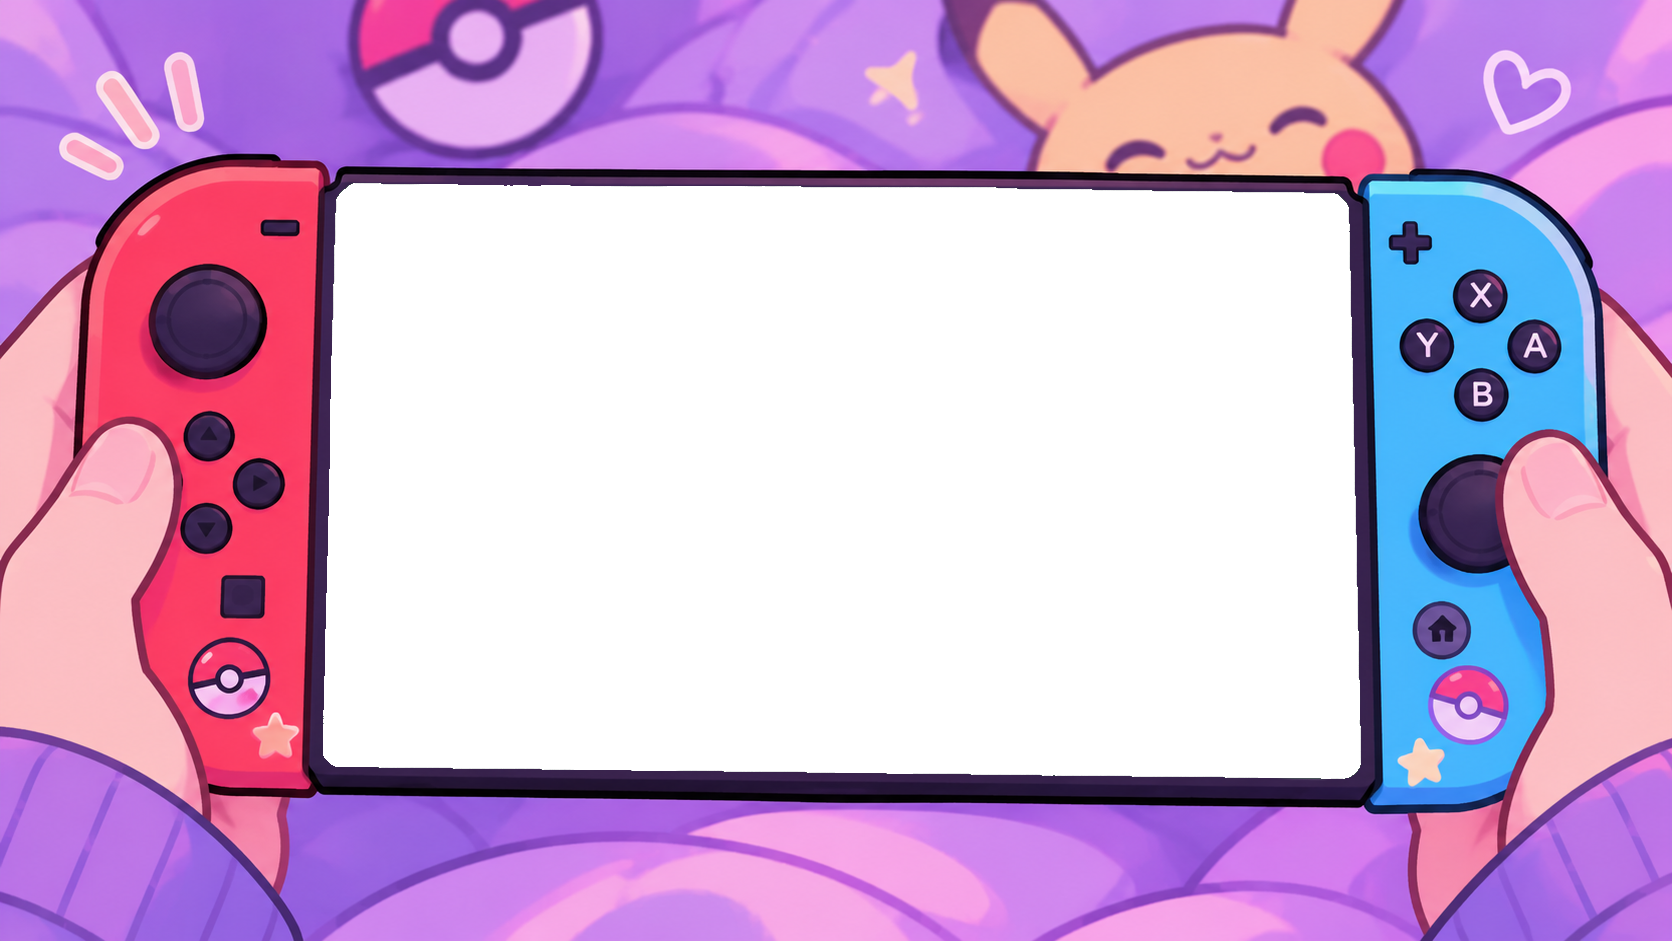
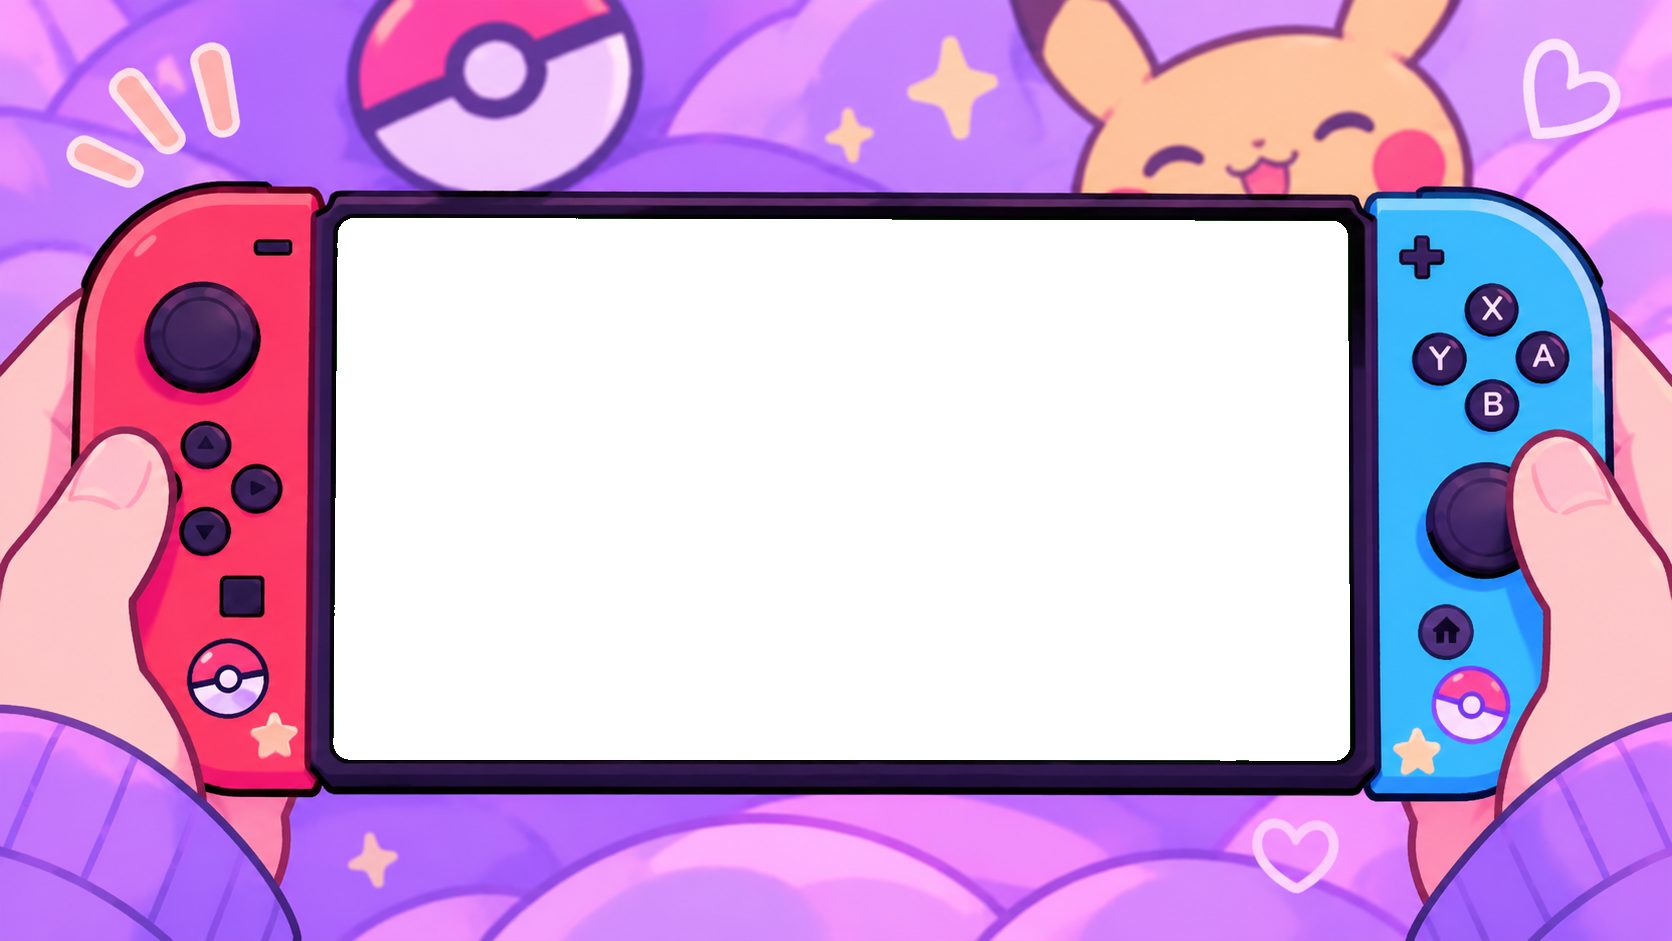
feat(3-Arrival): update Switch frame cutout and screen slot alignment for new background

diff --git a/3-Arrival/index.html b/3-Arrival/index.html
@@ -9,7 +9,7 @@
 
     <title>3-Arrival : Onix Snake & Scorbunnies (Switch Edition)</title>
 
-    <link rel="stylesheet" type="text/css" href="style.css?v=3.3">
+    <link rel="stylesheet" type="text/css" href="style.css?v=3.5">
 
     <script src="libraries/p5.min.js"></script>
     <script src="libraries/p5.sound.min.js"></script>
@@ -27,7 +27,7 @@
   <body>
     <div id="switch-stage">
       <div id="game-screen-slot"></div>
-      <img id="switch-overlay" src="../ressources/switch_frame.png?v=3.3" alt="Console Switch" draggable="false" />
+      <img id="switch-overlay" src="../ressources/switch_frame.png?v=3.5" alt="Console Switch" draggable="false" />
     </div>
   </body>
 </html>

diff --git a/3-Arrival/style.css b/3-Arrival/style.css
@@ -24,10 +24,10 @@ html, body {
 /* Zone d'écran de la console (alignée exactement sur l'écran vert découpé) */
 #game-screen-slot {
   position: absolute;
-  left: 19.14%;
-  top: 19.23%;
-  width: 62.32%;
-  height: 63.76%;
+  left: 19.80%;
+  top: 22.85%;
+  width: 61.06%;
+  height: 58.13%;
   overflow: hidden;
   z-index: 1;
   background: #0a0c16 url('../ressources/background.gif') center/cover no-repeat;

diff --git a/README.md b/README.md
@@ -5,7 +5,7 @@ Ce projet rassemble une suite d'applications, d'exercices et de simulations inte
 L'article original est consultable dans le dossier :
 `article craig reynolds/Steering Behaviors For Autonomous Characters.pdf`
 
-<!-- START:LAST_UPDATED --> *Dernière actualisation automatique : 2026-11-24 12:50:16 UTC* <!-- END:LAST_UPDATED -->
+<!-- START:LAST_UPDATED --> *Dernière actualisation automatique : 2026-11-24 14:41:45 UTC* <!-- END:LAST_UPDATED -->
 
 ---
 
